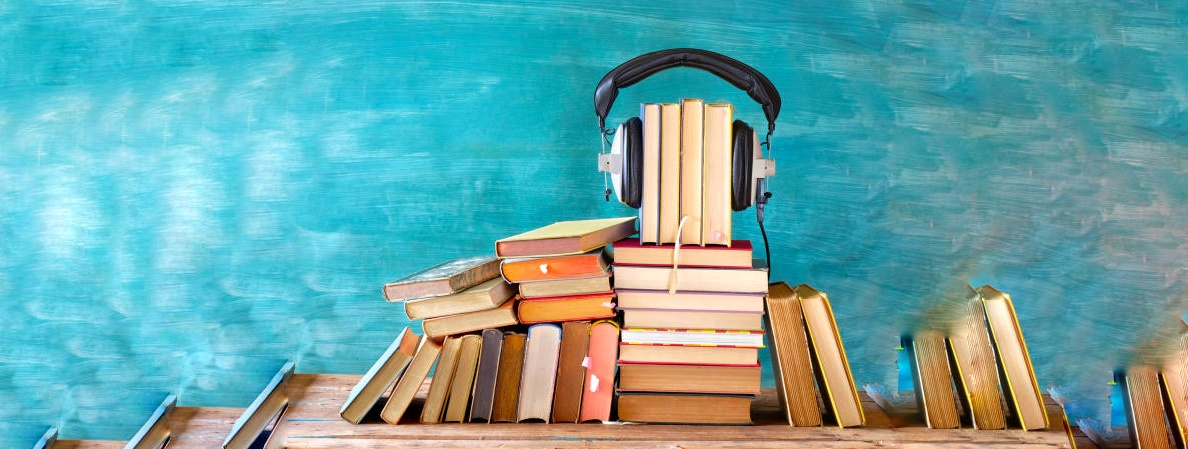
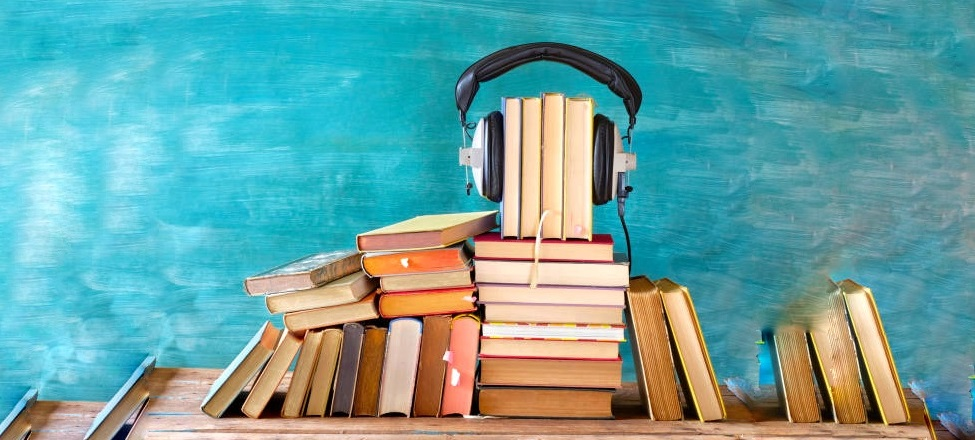
book7

diff --git a/css/main.css b/css/main.css
@@ -358,7 +358,7 @@ margin-bottom: 10px;
   height: 40vh;
   width: 100%;
   background: -webkit-gradient(linear, left top, right top, from(rgba(39, 39, 39, 0.9)), to(rgba(39, 39, 39, 0.3))), url("../img/model-1.jpg") center top;
-  background: /*linear-gradient(to right, rgba(39, 39, 39, 0.9), rgba(39, 39, 39, 0.3)),*/ url("../img/Audiob.jpeg") center top;
+  background: /*linear-gradient(to right, rgba(39, 39, 39, 0.9), rgba(39, 39, 39, 0.3)),*/ url("../img/audiob.jpeg") center top;
   background-size: cover;
   display: -webkit-box;
   display: -ms-flexbox;
